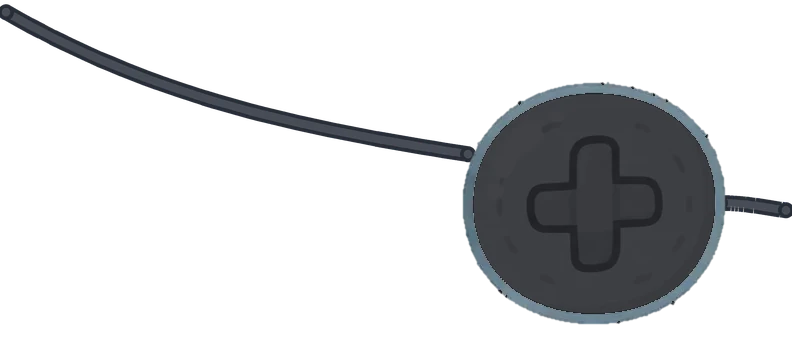
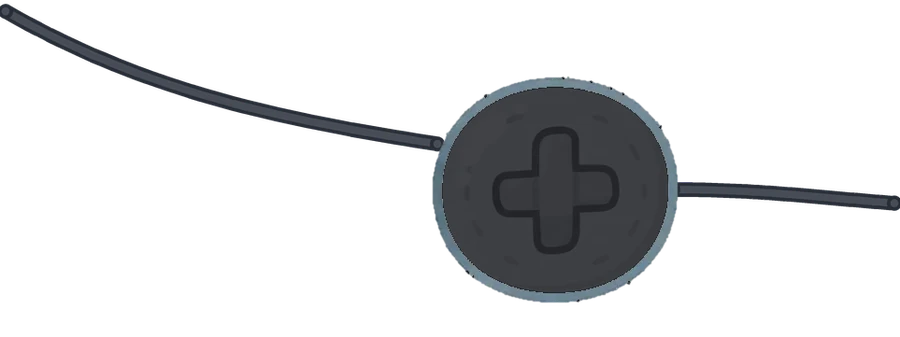
顔のかざり:眼帯の右のひもを前の長さに、サングラスを横に広げる(未公開。ゲームには未反映)

Changed region(s): [[0.0, 0.0, 1.0, 0.9199]]

diff --git a/tools/illust/export.py b/tools/illust/export.py
@@ -217,7 +217,7 @@ def strap_mask(img, reach=0.5):
     return canvas, (0.5, 0.5)
 
 
-def strap_eyepatch(img, left=1.75, right=0.25, rise=0.55, outline=None, inner=(240, 245, 249)):
+def strap_eyepatch(img, left=1.75, right=0.9, rise=0.55, outline=None, inner=(240, 245, 249)):
     """眼帯に、ひもを つける(線のように、1本ずつ。顔の画面から、はみ出さない長さ):右は、ほぼ水平に、画面のはしまで。左は、ななめに のぼって、画面の左上まで。
     戻り値の2つ目は、眼帯の中心が、絵のどこ(はば・高さの割合)にあるか"""
     k = 4
@@ -230,7 +230,7 @@ def strap_eyepatch(img, left=1.75, right=0.25, rise=0.55, outline=None, inner=(2
     px, py = Ll, Up
     paths = []
     sx, sy = (px + W - 6) * k, (py + H * 0.50) * k
-    paths.append(_bez((sx, sy), (sx + Lr * 0.4 * k, sy), (sx + Lr * 0.7 * k, sy + H * 0.02 * k), ((px + W + Lr - 6) * k, sy + H * 0.03 * k)))
+    paths.append(_bez((sx, sy), (sx + Lr * 0.4 * k, sy), (sx + Lr * 0.7 * k, sy + H * 0.04 * k), ((px + W + Lr - 6) * k, sy + H * 0.06 * k)))
     sx, sy = (px + 6) * k, (py + H * 0.30) * k
     paths.append(_bez((sx, sy), (sx - Ll * 0.33 * k, sy - Up * 0.30 * k), (sx - Ll * 0.66 * k, sy - Up * 0.64 * k), (6 * k, (H * 0.05) * k)))
     _strap_lines(canvas, paths, k, W, outline, inner)
@@ -248,6 +248,9 @@ def blacken(img):
     for c in range(3):
         a[..., c] = np.where(fill, new + (0, 2, 6)[c], a[..., c])
     return Image.fromarray(a.clip(0, 255).astype(np.uint8), "RGBA")
+
+
+STRETCH = {"fp_sunglasses": 1.25}  # 横はばだけ のばす(高さは、そのまま)
 
 
 STRAPS = {"fp_mask": strap_mask, "fp_eyepatch": strap_eyepatch}  # ひもを つける
@@ -270,6 +273,8 @@ def main():
             it = cut(im, box, holes=slug in HOLES, holes_top=slug in HOLES_TOP, smooth=SMOOTH.get(slug, 1.0), thr=BGTHR.get(slug, THR), clean=slug in CLEAN)
             if slug in GAPS:
                 it = respace(it, GAPS[slug])
+            if slug in STRETCH:
+                it = it.resize((int(it.width * STRETCH[slug]), it.height), Image.LANCZOS)
             if slug == "fp_eyepatch":  # 黒い眼帯(fp_eyepatch_black)も作る
                 black, ANCHORS["fp_eyepatch_black"] = strap_eyepatch(blacken(it), outline=(40, 45, 55), inner=(72, 76, 86))
                 black.thumbnail((MAXSIDE_WIDE["fp_eyepatch"],) * 2, Image.LANCZOS)

diff --git a/docs/decisions.md b/docs/decisions.md
@@ -821,3 +821,4 @@ scheme.md の「未定の事項」を決めたらここに追記する。
 - **記録**:どちらも、成績の「遊んだ回数」「正解率」「総合得点」「最高得点」には**入れない**(オニ・皆で対戦と同じ)。この遊びだけの記録を、端末の中(`floriQuiz.adventure`)に残す=サバイバルは「いちばん多く正解した問題数」、ミニマップは「いちばん少ない問題数でゴール(最短記録)」。結果の画面の「最高記録」「最短記録」に出して、更新したら「新記録!」。図鑑(出会った問題・正解した問題)は、ふだんどおり増える。制限時間のご褒美の星は、この2つでは出さない(長く遊べるので、星のかせぎ方になってしまうため)。
 - まだ作っていないこと(決まっていない):ルールのムービーへの追加、ご褒美(着せ替え)の条件への追加、間違えた問題をノート(復習待ち)に入れること、宝箱マスの数や位置の調整。
 - **着せ替えは、ちがう かざり なら、同じ場所(頭・体・顔)に、いくつでも重ねて付けられる**:押すと付く・もういちど押すとはずれる・「なし」は、その種類をぜんぶはずす。保存の形は、頭・体・顔が、id の配列になった(前の1つだけの保存も読める。badges.js の loadDress)。重なりの順は、体→頭→顔、その中は、付けた順。重なりすぎ(帽子を2つ、など)は、止めていない。Edge で確かめた。
+- (その60のつづき4)利用者の指示:**眼帯の右のひもは、前の長さ(ヘルメットのはしまで)にもどした**(左は、顔の画面の左上まで)。**サングラス**は、**横はばだけ**1.25倍(`STRETCH`。高さは同じ)。
